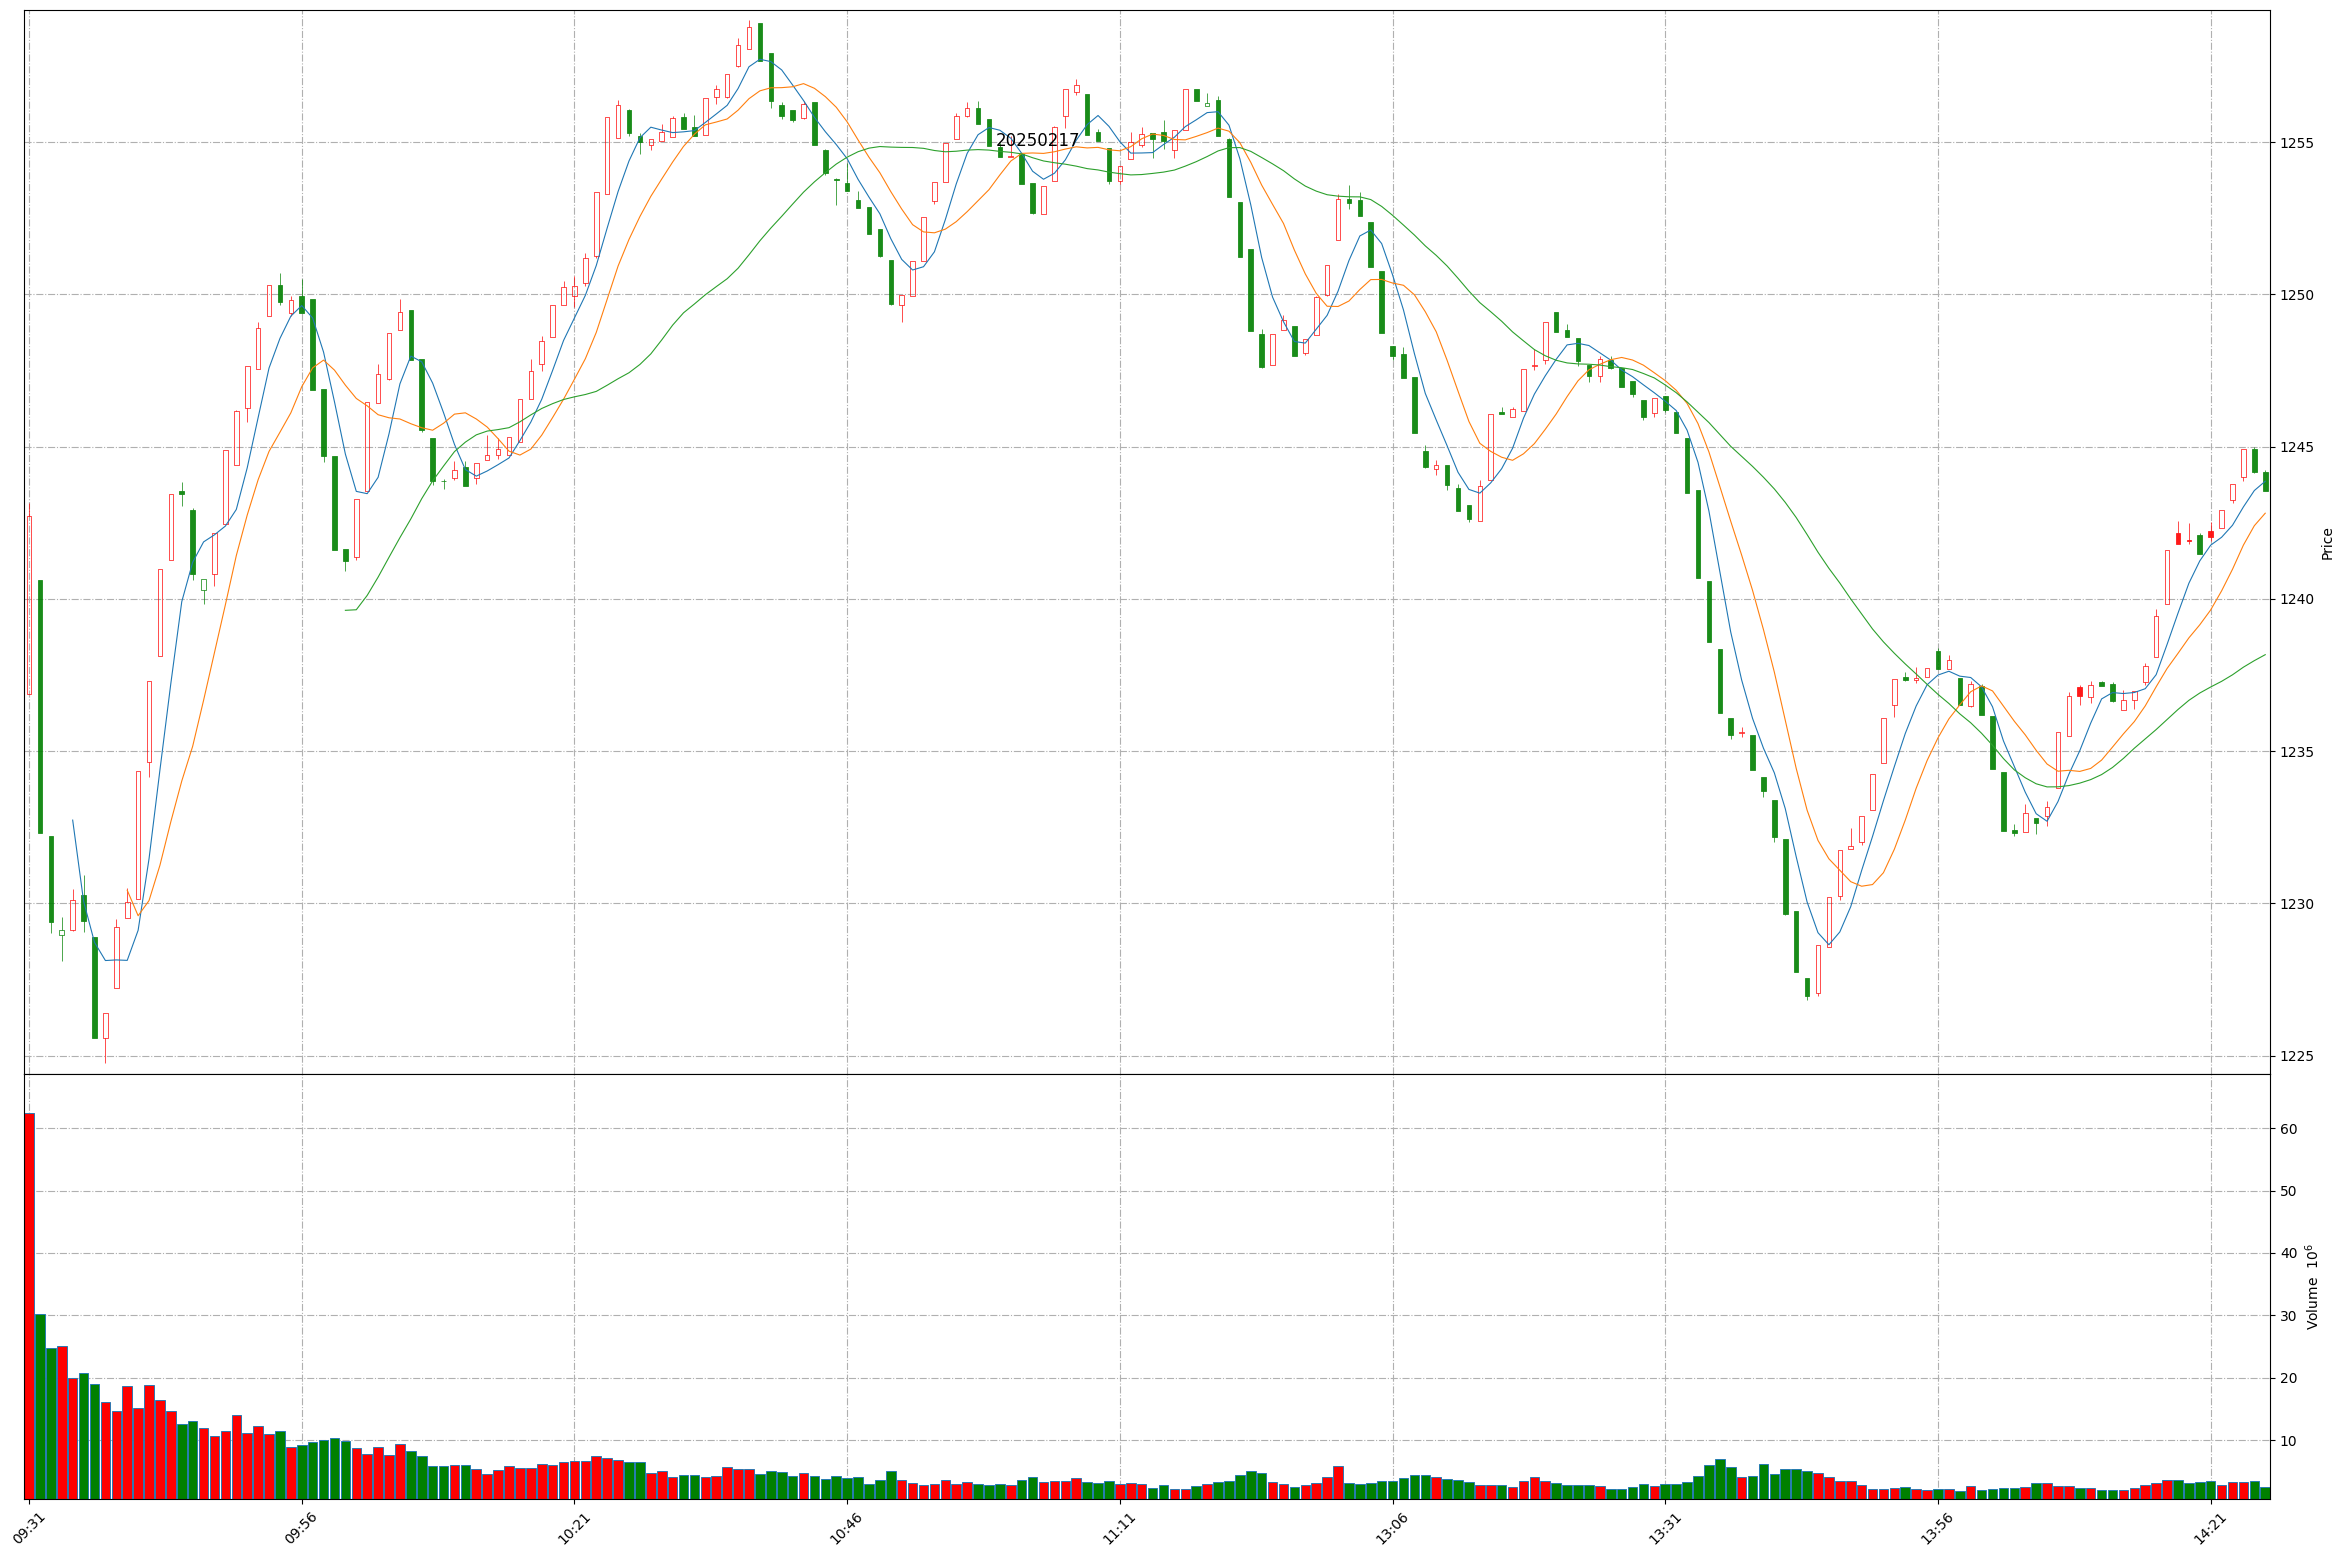
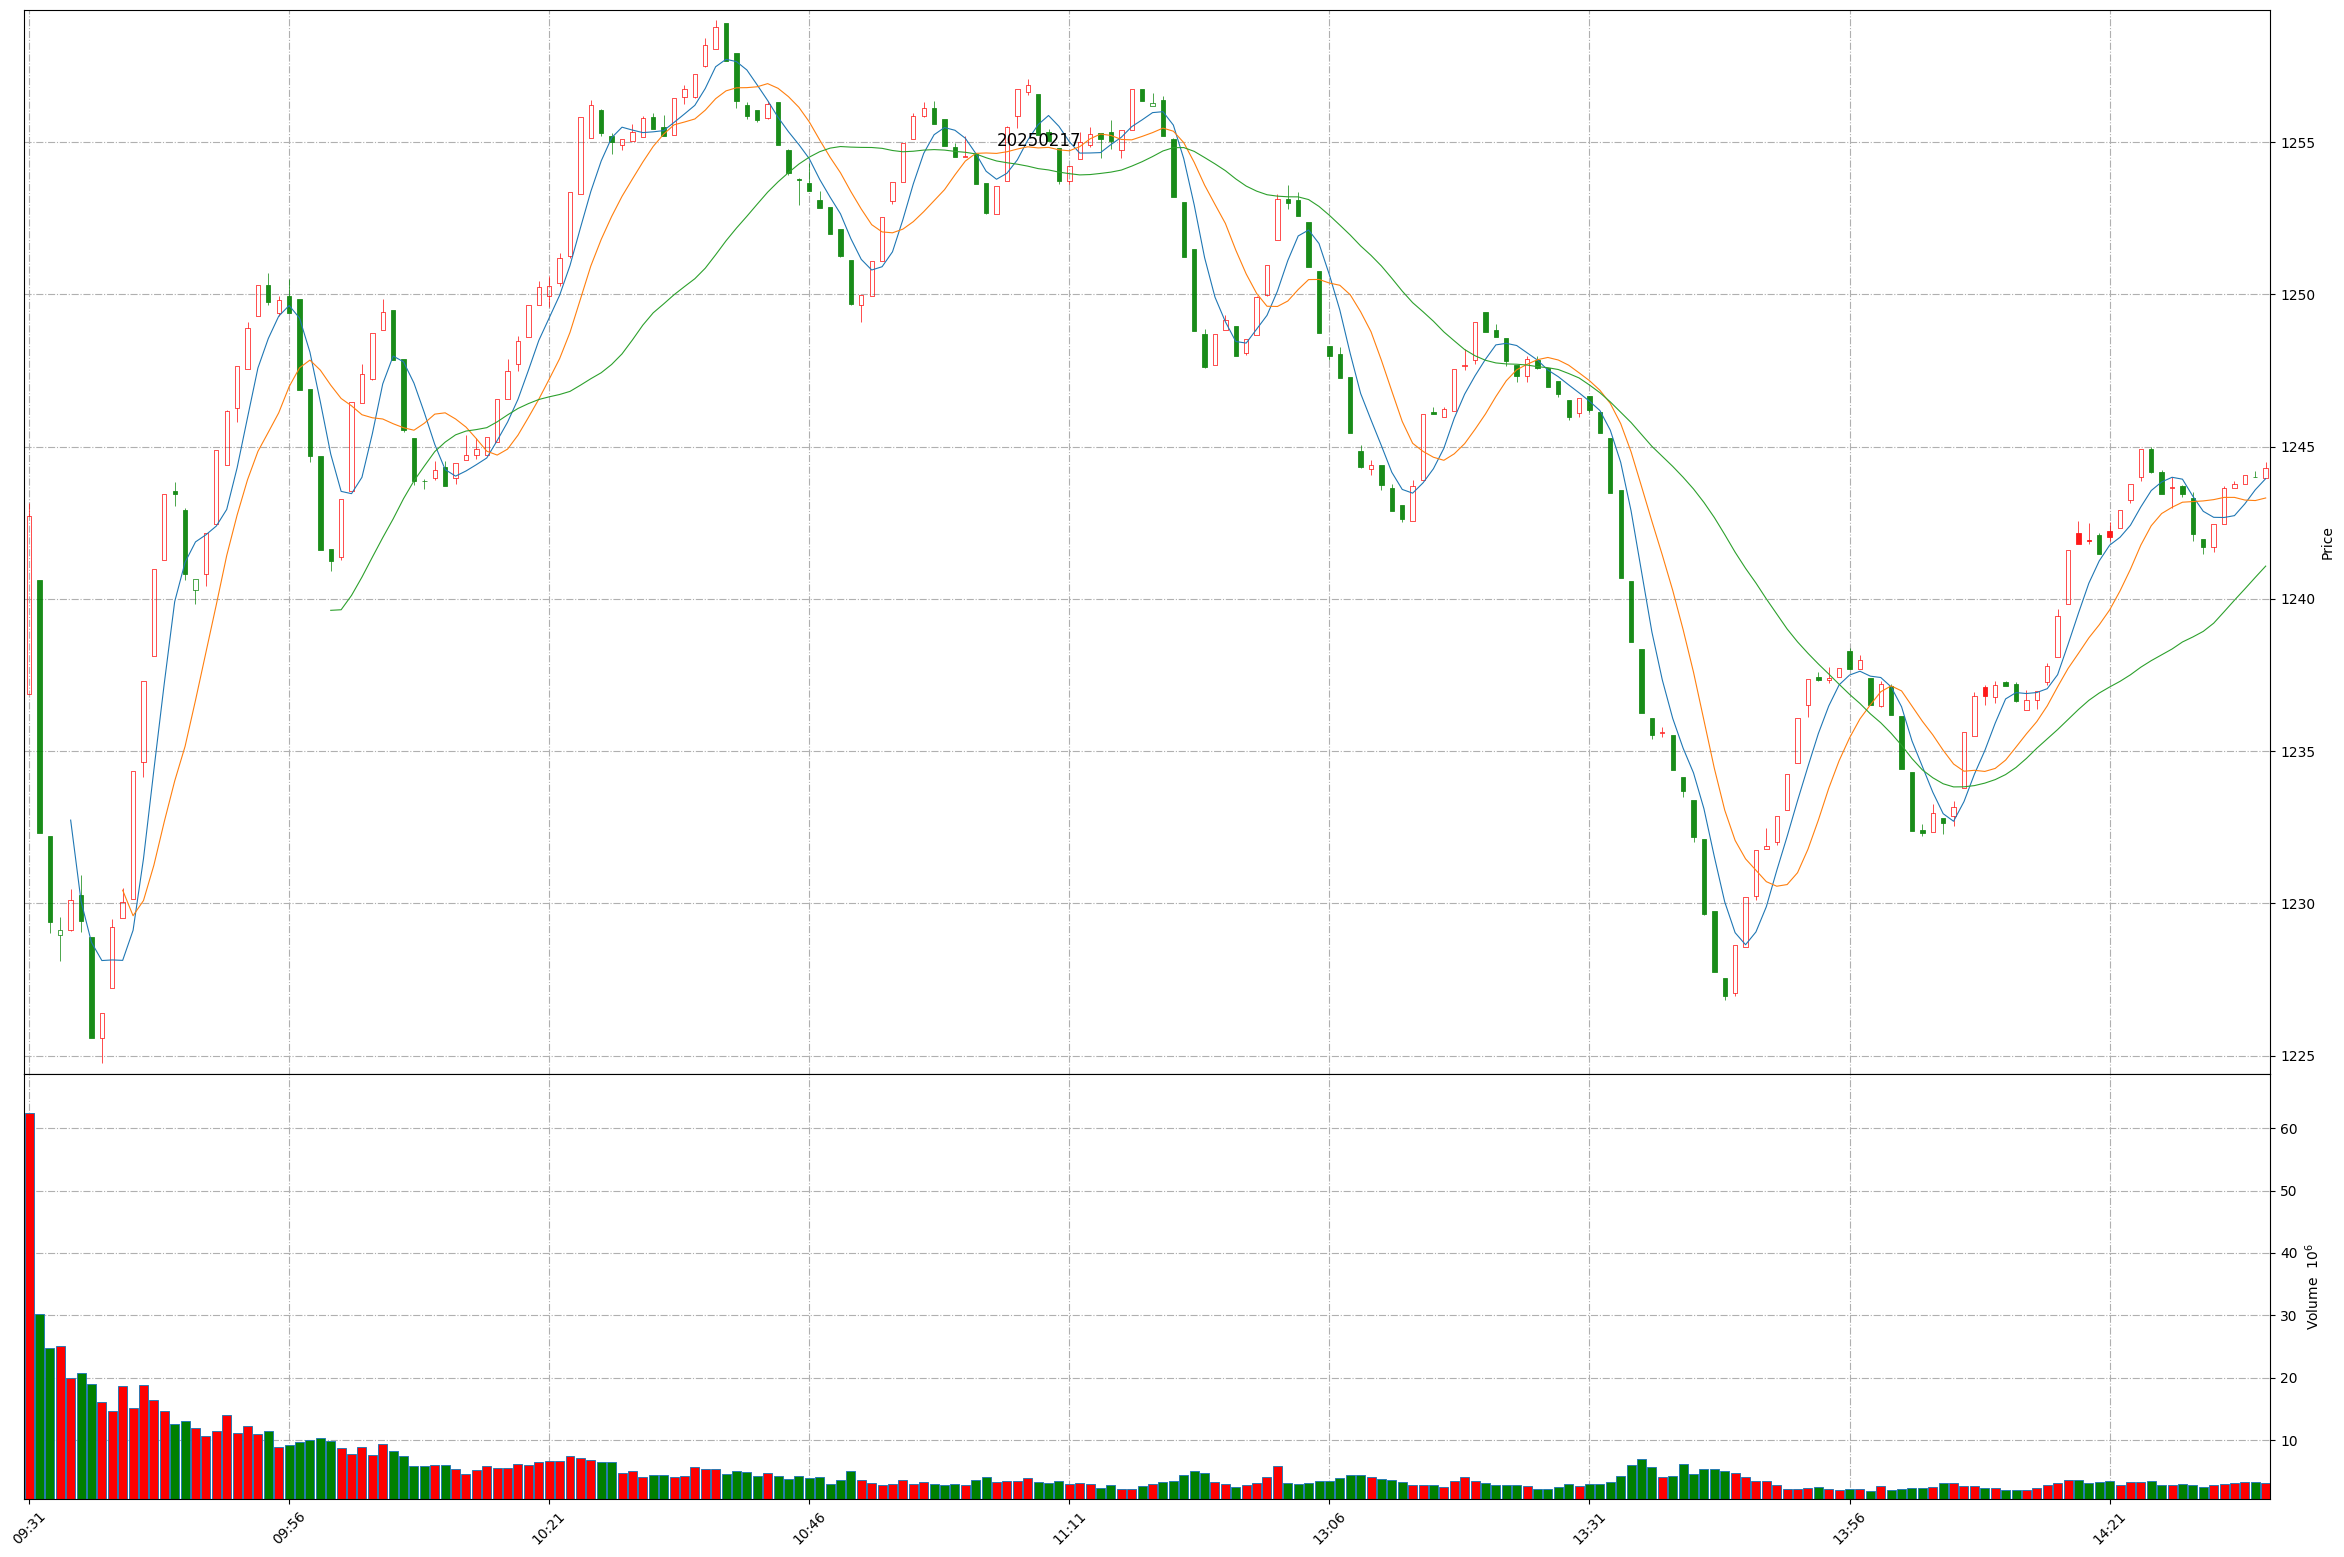
Github action update at 2025-02-17 14:36:05.

diff --git a/README.md b/README.md
@@ -1,11 +1,11 @@
 
 # Daily-A-share-market-quotes 每日 A 股指数（5min 更新）- 20250217
 
-### 上证指数 20250217 14:26
+### 上证指数 20250217 14:36
 ![](./fig/2025/2/20250217-sh000001.png)
 
-### 深证成指 20250217 14:26
+### 深证成指 20250217 14:36
 ![](./fig/2025/2/20250217-sz399001.png)
 
-### 北证50 20250217 14:26
+### 北证50 20250217 14:36
 ![](./fig/2025/2/20250217-bj899050.png)
